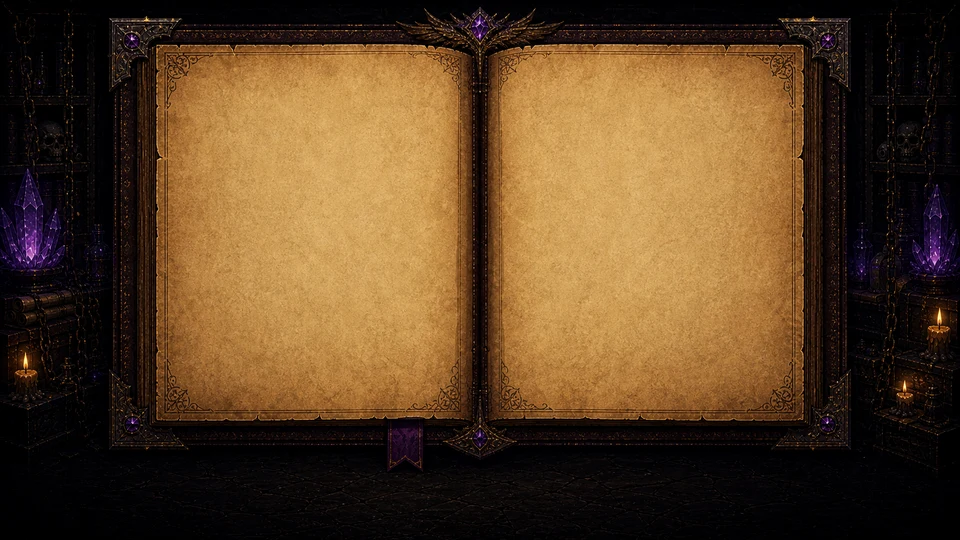
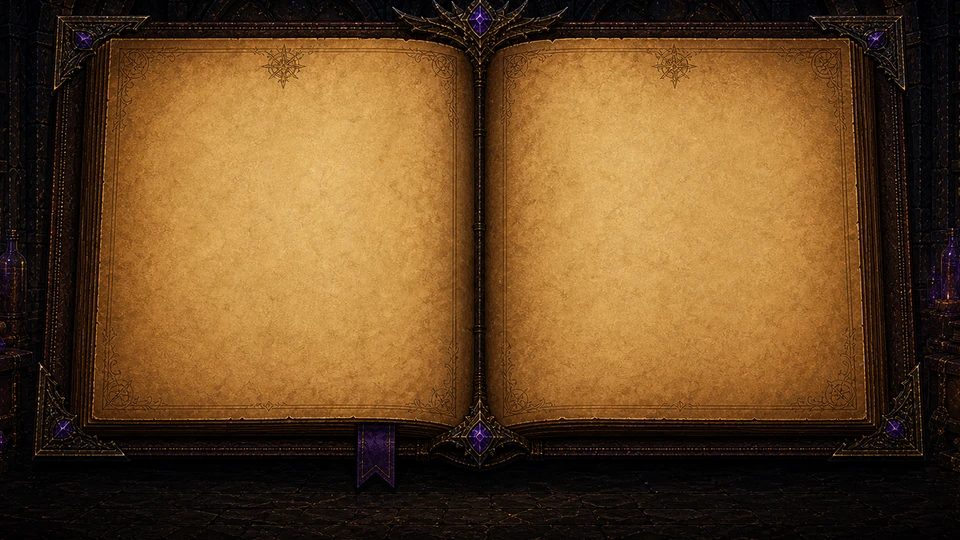
Use fitted codex book background

diff --git a/src/config.js b/src/config.js
@@ -1485,19 +1485,19 @@ export const CONFIG = {
   PREP_MERGE_TOOLTIP_HEIGHT: 36,
   // Height of the Merge hover tooltip.
 
-  CODEX_LEFT_PAGE_X: 74,
+  CODEX_LEFT_PAGE_X: 80,
   // Left edge of the usable left parchment page.
 
-  CODEX_RIGHT_PAGE_X: 488,
+  CODEX_RIGHT_PAGE_X: 482,
   // Left edge of the usable right parchment page.
 
-  CODEX_PAGE_Y: 44,
+  CODEX_PAGE_Y: 35,
   // Top edge of the usable parchment pages.
 
   CODEX_PAGE_WIDTH: 398,
   // Width of each usable parchment page.
 
-  CODEX_PAGE_HEIGHT: 354,
+  CODEX_PAGE_HEIGHT: 375,
   // Height of each usable parchment page.
 
   CODEX_COLUMNS_PER_PAGE: 4,
@@ -1530,16 +1530,16 @@ export const CONFIG = {
   CODEX_FOOTER_Y: 464,
   // Discovery count baseline.
 
-  CODEX_BOOK_CONTENT_RIGHT: 886,
+  CODEX_BOOK_CONTENT_RIGHT: 880,
   // Right edge of the writable parchment area.
 
-  CODEX_BOOK_GUTTER_LEFT: 470,
+  CODEX_BOOK_GUTTER_LEFT: 478,
   // Left edge of the book gutter that codex cells should avoid.
 
-  CODEX_BOOK_GUTTER_RIGHT: 488,
+  CODEX_BOOK_GUTTER_RIGHT: 482,
   // Right edge of the book gutter that codex cells should avoid.
 
-  CODEX_BOOK_CONTENT_BOTTOM: 418,
+  CODEX_BOOK_CONTENT_BOTTOM: 410,
   // Bottom edge of the writable parchment area.
 
   CODEX_INSPECTOR_X: 250,